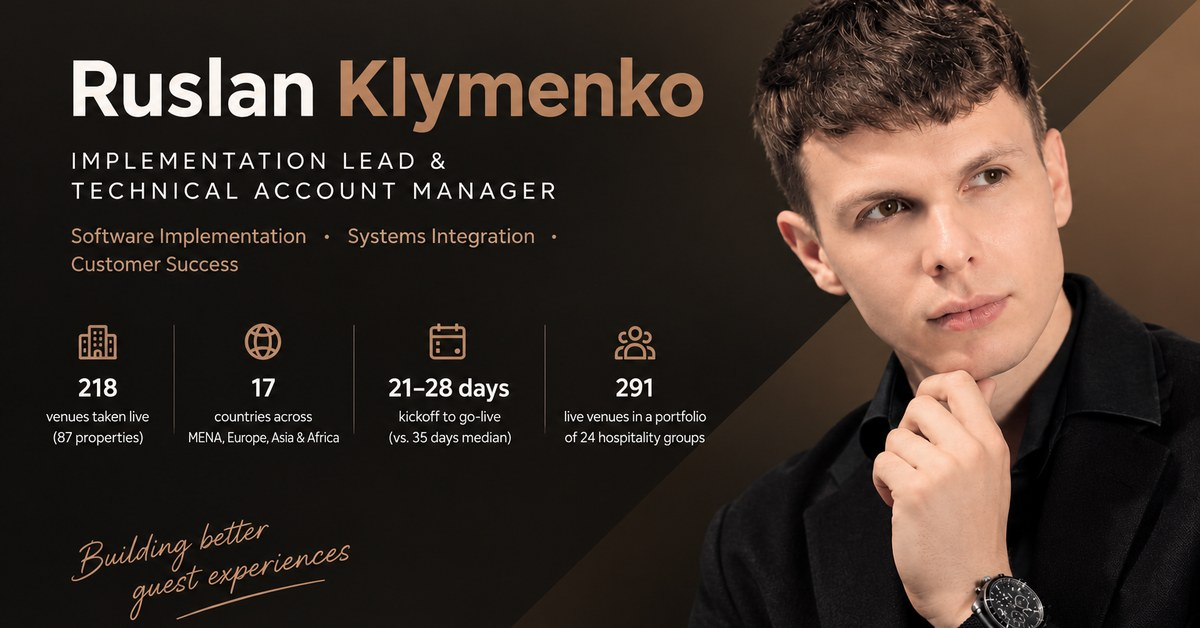
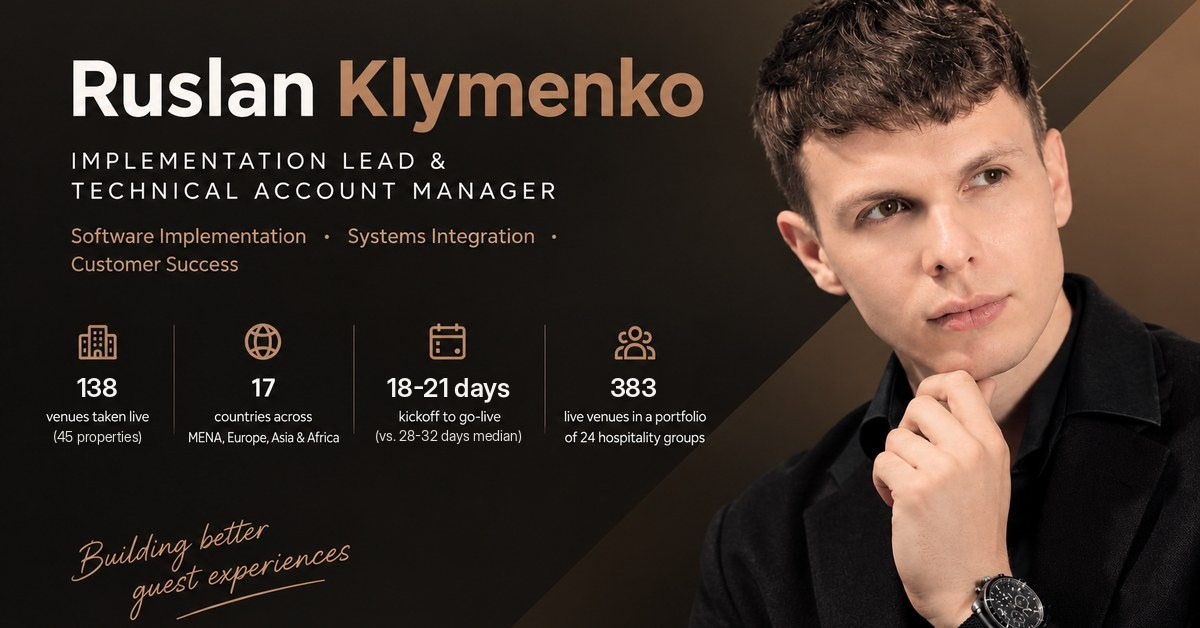
Update key figures, TableCheck end date and link preview image
138 venues across 45 properties in one group-wide implementation,
go-live 18-21 days from a median of 28-32, 94% healthy usage,
TableCheck to Nov 2026.

Claude-Session: https://claude.ai/code/session_016Fx2KMDiK1ApnBXsETNh1J

diff --git a/index.html b/index.html
@@ -201,12 +201,12 @@
 <meta property="og:description" content="Hospitality software implementation and workflow automation, based in Dubai. Open to full-time roles.">
 <meta property="og:type" content="website">
 <meta property="og:url" content="https://russklymen.github.io/">
-<meta property="og:image" content="https://russklymen.github.io/og-image.jpg">
+<meta property="og:image" content="https://russklymen.github.io/og-image.jpg?v=20261113">
 <meta property="og:image:width" content="1200">
 <meta property="og:image:height" content="628">
 <meta property="og:image:alt" content="Ruslan Klymenko, Implementation Lead and Technical Account Manager">
 <meta name="twitter:card" content="summary_large_image">
-<meta name="twitter:image" content="https://russklymen.github.io/og-image.jpg">
+<meta name="twitter:image" content="https://russklymen.github.io/og-image.jpg?v=20261113">
 </head>
 <body>
 <main class="page">
@@ -216,10 +216,10 @@
     <p class="pitch">I take hospitality software live: from requirements and configuration to POS, CRM and payment integrations, staff training and <span class="nowrap">go-live</span>, across many venues and countries at once.</p>
     <p class="pitch-sub">I also build the processes and <span class="nowrap">AI-assisted</span> workflows that make each <span class="nowrap">go-live</span> faster than the last.</p>
     <ul class="figures" aria-label="Team results at TableCheck">
-      <li><b>218</b><span>venues taken live by my team</span></li>
-      <li><b>17</b><span>countries, 87 properties</span></li>
-      <li><b>21-28</b><span>days to go-live, from a median of 35</span></li>
-      <li><b>89%</b><span>healthy usage in a 2026 venue review</span></li>
+      <li><b>138</b><span>venues in one group-wide implementation</span></li>
+      <li><b>17</b><span>countries, 45 properties</span></li>
+      <li><b>18-21</b><span>days to go-live, from a median of 28-32</span></li>
+      <li><b>94%</b><span>healthy usage across venues</span></li>
     </ul>
     <ul class="spec" aria-label="Availability">
       <li class="key">Open to full-time roles</li>
@@ -262,13 +262,13 @@
     <h2 id="work-title" class="eyebrow">What I have delivered</h2>
     <div class="work">
       <article class="item">
-        <div class="meta"><span class="status">Full-time</span><span>Mar 2022 - Oct 2026</span><span>Dubai</span></div>
+        <div class="meta"><span class="status">Full-time</span><span>Mar 2022 - Nov 2026</span><span>Dubai</span></div>
         <div class="body">
           <h3>TableCheck</h3>
-          <p class="role">Project Lead, Onboarding &amp; Implementation (03/2024 - 10/2026), Technical &amp; Sales Consultant (03/2022 - 02/2024) · Reservation and guest-experience platform</p>
+          <p class="role">Project Lead, Onboarding &amp; Implementation (03/2024 - 11/2026), Technical &amp; Sales Consultant (03/2022 - 02/2024) · Reservation and guest-experience platform</p>
           <ul>
-            <li>Led a five-person team that took 218 venues live for Rotana, Minor Hotels (Anantara), Hyatt, IHG and Hilton.</li>
-            <li>Cut kickoff to go-live from a median of 35 days to 21-28, with a new implementation SOP the team adopted as its standard.</li>
+            <li>Led a five-person team through one group-wide implementation for a major hotel group: 138 venues across 45 properties in 17 countries.</li>
+            <li>Cut kickoff to go-live from a median of 28-32 days to 18-21, with a new implementation SOP the team adopted as its standard.</li>
             <li>Ran the Rotana rollout: 80 venues in 41 hotels across 7 countries, delivered in four waves.</li>
             <li>Brought AI and automation into delivery: used AI tools to build structured training sessions that cut manual preparation, and introduced a structured method for client-specific configuration files that reduced setup work.</li>
           </ul>
